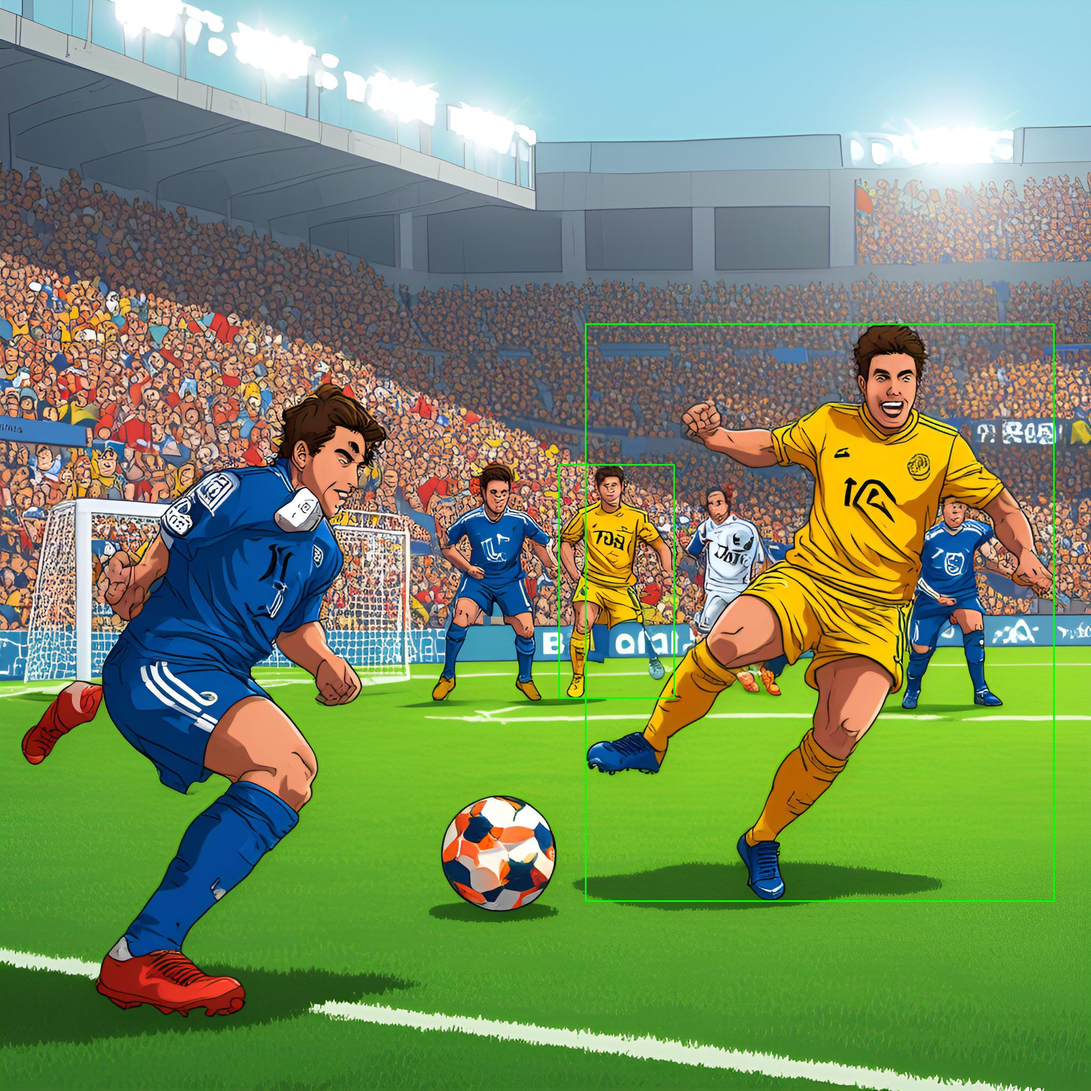
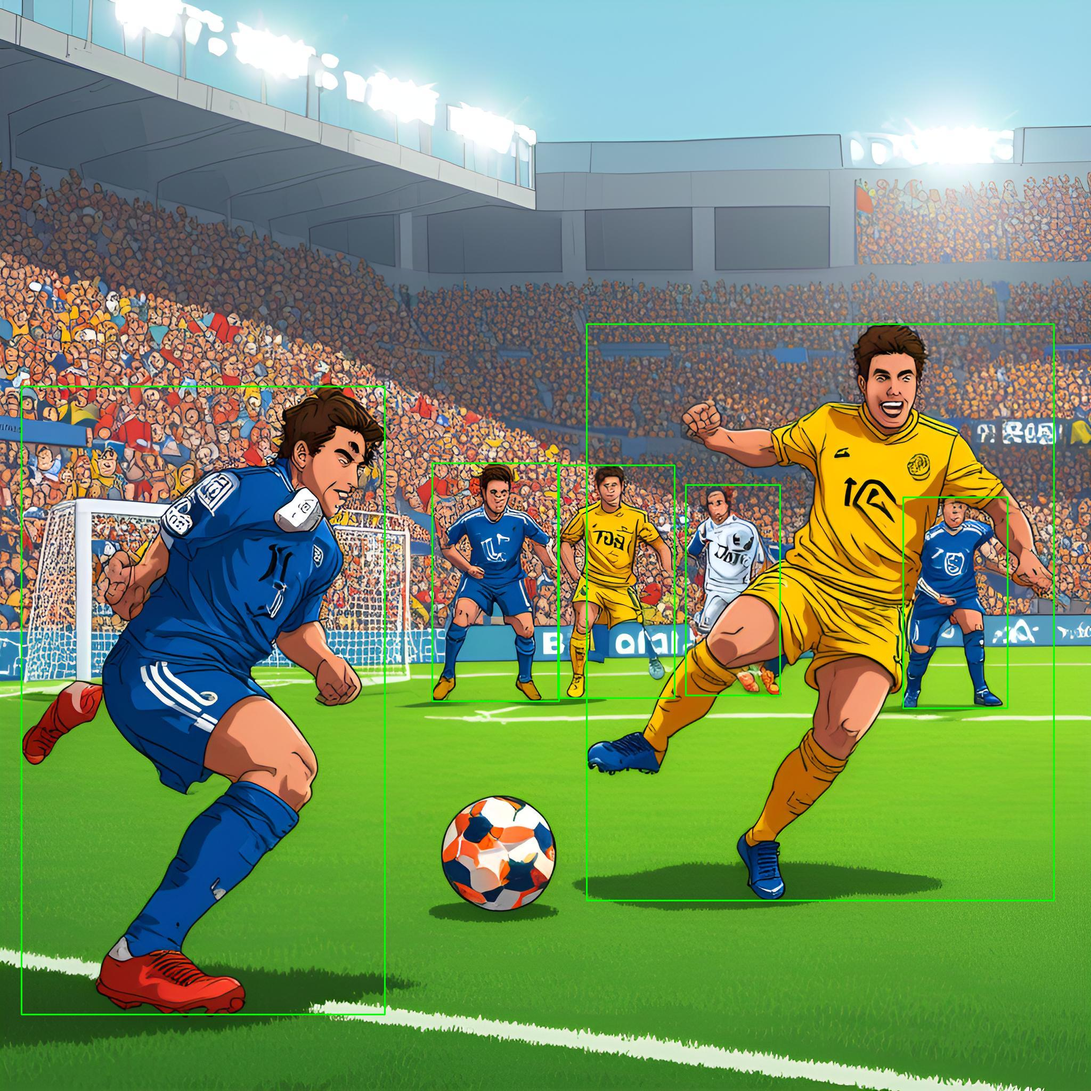
增加YOLO26

diff --git a/10_sam3_yolo26.py b/10_sam3_yolo26.py
@@ -1,0 +1,15 @@
+from ultralytics.models.sam import SAM3SemanticPredictor
+
+overrides = dict(
+    conf=0.25,
+    task="segment",
+    mode="predict",
+    model="./models/facebook/sam3/sam3.pt",
+    half=True,
+    save=True,
+)
+predictor = SAM3SemanticPredictor(overrides=overrides)
+predictor.set_image("image01.jpg")
+results = predictor(
+    text=["the soccer players in blue jerseys in the image"])
+results[0].show()

diff --git a/README.md b/README.md
@@ -143,6 +143,21 @@ git clone https://github.com/facebookresearch/sam-3d-body
 CUDA_VISIBLE_DEVICES=0 HF_ENDPOINT=https://hf-mirror.com python 09_sam3_body.py
 ```
 
+## 五、YOLO26-SAM3
+
+```shell
+# 创建虚拟环境
+conda create -n yolo26 python=3.12 -y
+# 激活虚拟环境
+conda activate yolo26
+# 安装最新YOLO库
+pip install -U ultralytics -i https://pypi.mirrors.ustc.edu.cn/simple
+# 重装PyTorch（仅Windows）
+pip install torch==2.4.1 torchvision==0.19.1 torchaudio==2.4.1 --index-url https://download.pytorch.org/whl/cu124
+# 运行YOLO26-SAM3测试程序
+python 10_sam3_yolo26.py
+```
+
 
 
 ## 作者其他作品
